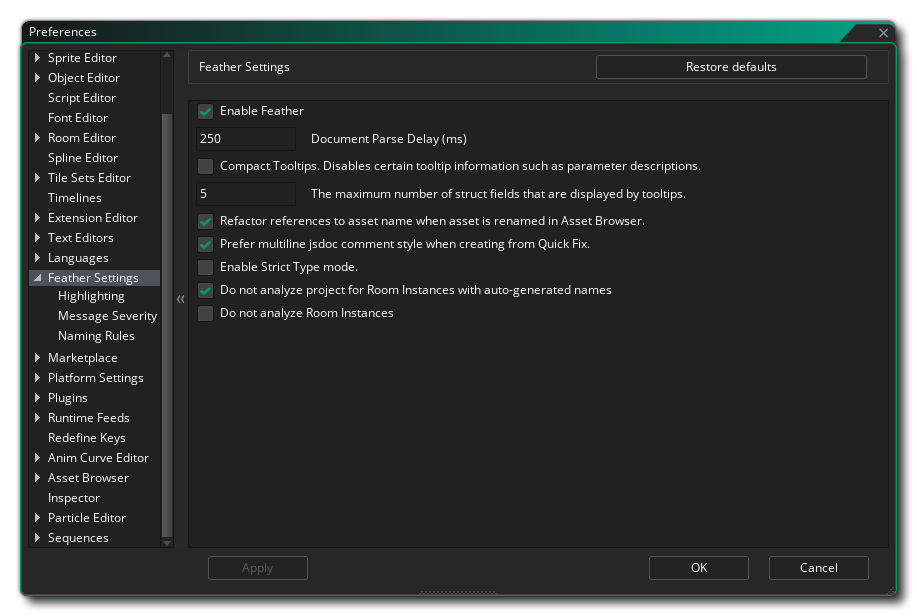
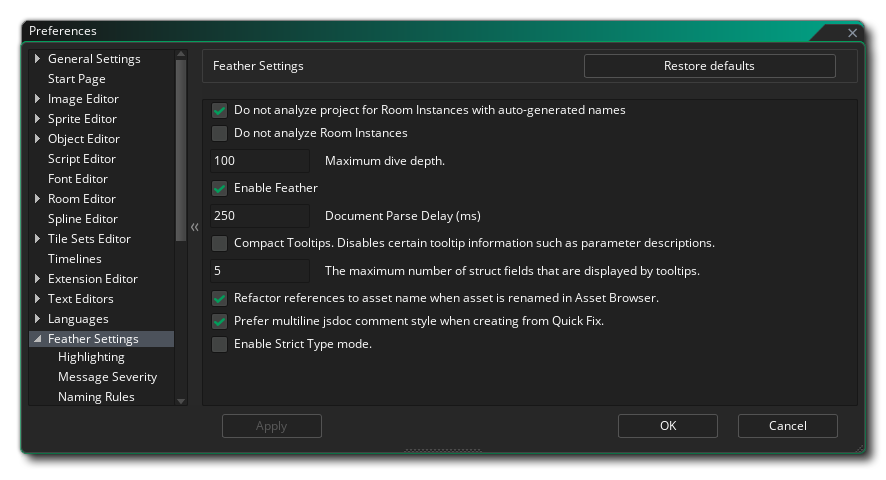
docs(feature): Maximum dive depth pref for Feather https://github.com/YoYoGames/GameMaker-Bugs/issues/8487

Changed region(s): [[0.0, 0.0312, 1.0, 1.0]]

diff --git a/Manual/contents/Setting_Up_And_Version_Information/IDE_Preferences/Feather_Settings.htm b/Manual/contents/Setting_Up_And_Version_Information/IDE_Preferences/Feather_Settings.htm
@@ -32,15 +32,16 @@
   <h2 id="s1">Base Options</h2>
   <p><img class="center" src="../../assets/Images/Setup_And_Version/Preferences/Feather/FeatherPrefs_Base.png" />The base Feather Settings contain the following options:</p>
   <ul class="colour">
-    <li id="enable_feather"><strong>Enable Feather</strong>: Enable or disable Feather here. When disabled, no Feather features will be available throughout the IDE.</li>
+    <li><strong>Do not analyze project for Room Instances with auto-generated names</strong>: Enabling this will make Feather not analyse the project for newly added instances. Feather will however analyse your project again when you rename a room instance to a name that&#39;s different from its original auto-generated name.</li>
+    <li><strong>Do not analyze Room Instances</strong>: When this is enabled, Feather will never analyse any Instance Creation Code or reparse the project for new room instances, even when you rename them.</li>
+    <li><strong>Maximum dive depth</strong>: The maximum number of dot references the language server will process before throwing a GM1100 warning. The language server will not process the full context where the maximum dive depth has been exceeded. Set to -1 for better performance however dives that are too long may cause errors.</li>
+    <li><strong>Enable Feather</strong>: Enable or disable Feather here. When disabled, no Feather features will be available throughout the IDE.</li>
     <li><strong>Document Parse Delay</strong>: The amount of time Feather waits to check your script after you make a change to it.</li>
     <li><strong>Compact Tooltips</strong>: Enabling this will remove certain tooltip information that appears when hovering over keywords, such as parameter descriptions for functions, ultimately making your tooltips smaller.</li>
     <li><strong>The maximum number of struct fields that are displayed by tooltips</strong>: When you hover over a struct reference, a tooltip displays the variables inside that struct, up to the number entered here.</li>
     <li><strong>Refactor references to asset name when asset is renamed in Asset Browser</strong>: Enabling this will ensure that when you rename an asset in <a data-xref="{title}" href="../../Introduction/The_Asset_Browser.htm">The Asset Browser</a>, any mentions of it in your code are also edited so those references don&#39;t break.</li>
     <li><strong>Prefer multiline JSDoc comment style when creating from Quick Fix</strong>: When you generate <a data-xref="{title}" href="../../The_Asset_Editors/Code_Editor_Properties/JSDoc_Script_Comments.htm">JSDoc Comments</a> for a function through the <a data-xref="{text}" href="../../The_Asset_Editors/Code_Editor_Properties/Feather_Features.htm#h1">Quick Fixes</a> menu, the generated JSDoc will either use single-line or multi-line <a href="../../GameMaker_Language/GML_Overview/Commenting_Code.htm">comments</a>, depending on this option.</li>
     <li><strong>Enable Strict Type mode</strong>: When this is enabled, Feather is stricter about ensuring you use the correct data types in your code.</li>
-    <li><strong>Do not analyze project for Room Instances with auto-generated names</strong>: Enabling this will make Feather not analyse the project for newly added instances. Feather will however analyse your project again when you rename a room instance to a name that&#39;s different from its original auto-generated name.</li>
-    <li><strong>Do not analyze Room Instances</strong>: When this is enabled, Feather will never analyse any Instance Creation Code or reparse the project for new room instances, even when you rename them.</li>
   </ul>
   <h2 id="s2">Highlighting</h2>
   <p><img class="center" src="../../assets/Images/Setup_And_Version/Preferences/Feather/FeatherPrefs_Highlighting.png" style="cursor: nesw-resize;" /></p>
